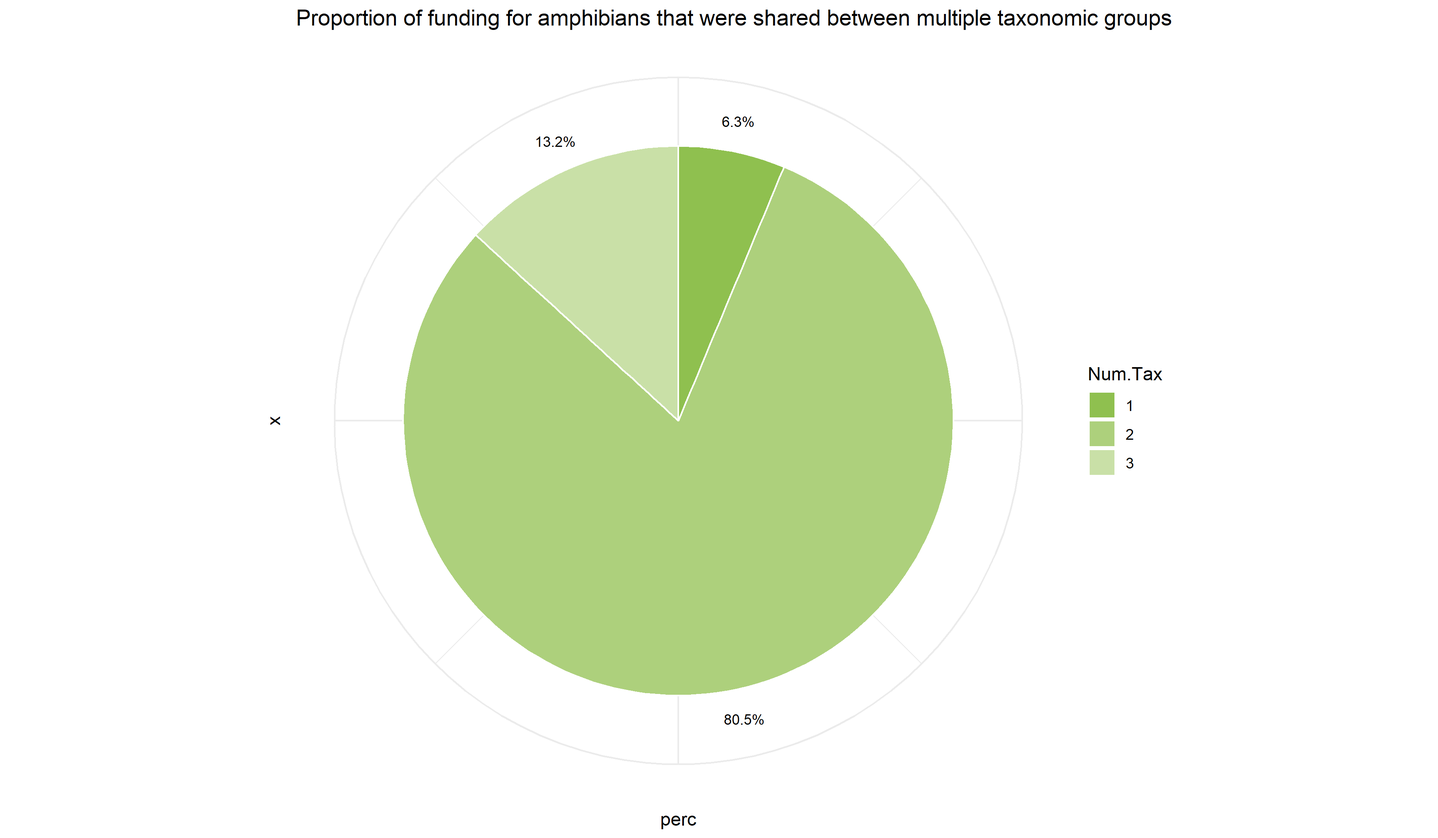
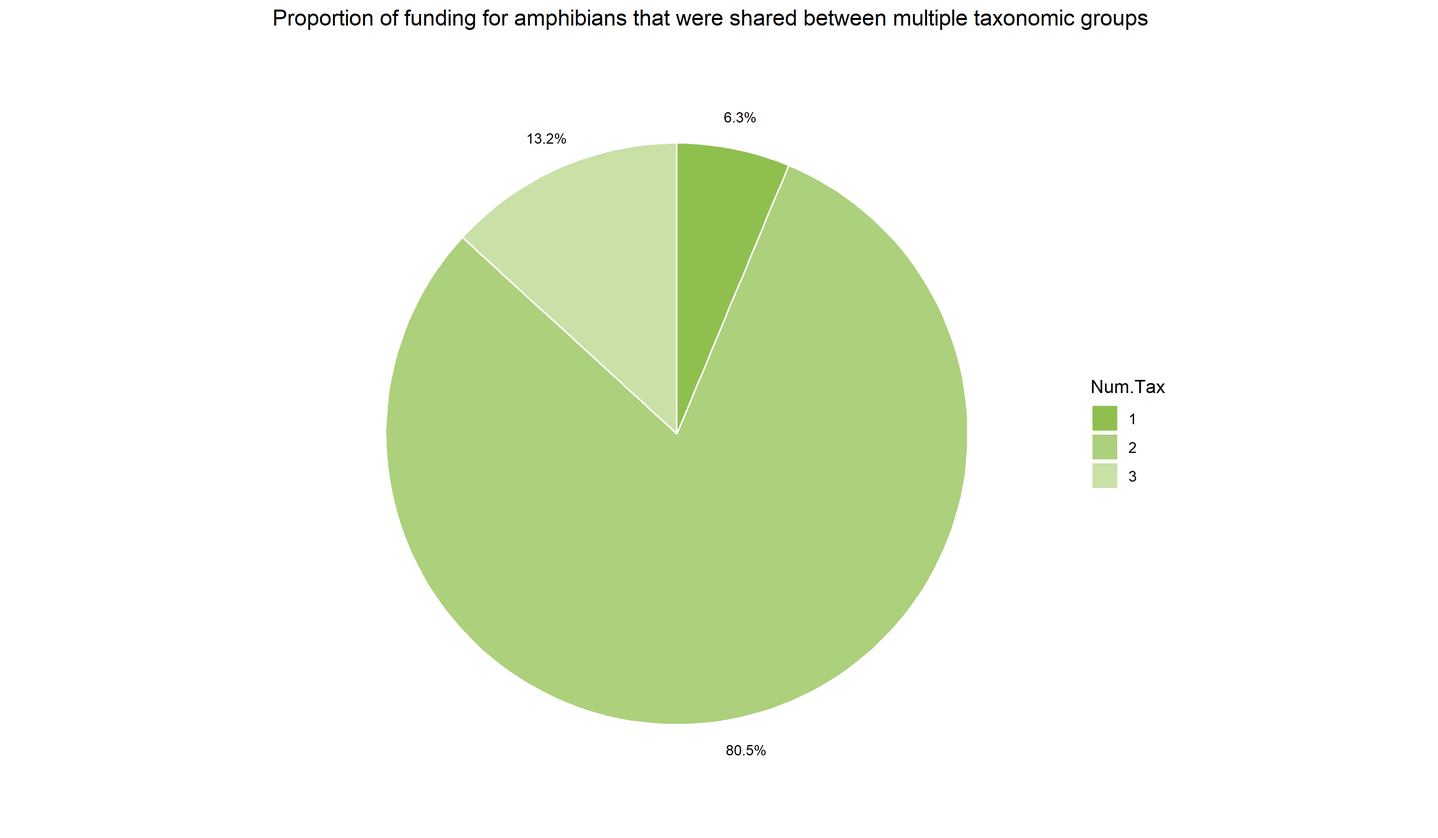
edits - supplementary figures

diff --git a/docs/supplementary-figures.html b/docs/supplementary-figures.html
@@ -283,19 +283,20 @@ Figure 10.1: Mismatch between conservation funding and drivers of biodiversity l
 <a class="sourceLine" id="cb67-11" title="11">                           <span class="dt">x =</span> <span class="st">&quot;&quot;</span>,</a>
 <a class="sourceLine" id="cb67-12" title="12">                           <span class="dt">fill =</span> Num.Tax)) <span class="op">+</span></a>
 <a class="sourceLine" id="cb67-13" title="13"><span class="st">  </span><span class="kw">geom_bar</span>(<span class="dt">stat =</span> <span class="st">&quot;identity&quot;</span>, <span class="dt">color =</span> <span class="st">&quot;white&quot;</span>) <span class="op">+</span></a>
-<a class="sourceLine" id="cb67-14" title="14"><span class="st">  </span><span class="kw">theme_minimal</span>() <span class="op">+</span></a>
+<a class="sourceLine" id="cb67-14" title="14"><span class="st">  </span><span class="kw">theme_bw</span>() <span class="op">+</span></a>
 <a class="sourceLine" id="cb67-15" title="15"><span class="st">  </span><span class="kw">scale_fill_manual</span>(<span class="dt">values =</span> <span class="kw">seq_gradient_pal</span>(cat_colors22[<span class="dv">9</span>], <span class="st">&quot;white&quot;</span>,</a>
 <a class="sourceLine" id="cb67-16" title="16">                                              <span class="st">&quot;Lab&quot;</span>)(<span class="kw">seq</span>(<span class="dv">0</span>,<span class="dv">1</span>, <span class="dt">length.out =</span> <span class="dv">5</span>))) <span class="op">+</span></a>
 <a class="sourceLine" id="cb67-17" title="17"><span class="st">  </span><span class="kw">labs</span>(<span class="dt">title=</span><span class="st">&quot;Proportion of funding for amphibians that were shared between multiple taxonomic groups&quot;</span>) <span class="op">+</span></a>
 <a class="sourceLine" id="cb67-18" title="18"><span class="st">  </span><span class="kw">coord_polar</span>(<span class="st">&quot;y&quot;</span>, <span class="dt">start=</span><span class="dv">0</span>, <span class="dt">direction =</span> <span class="dv">-1</span>) <span class="op">+</span></a>
-<a class="sourceLine" id="cb67-19" title="19"><span class="st">  </span><span class="kw">theme</span>(<span class="dt">axis.text.x =</span> <span class="kw">element_blank</span>()) <span class="op">+</span></a>
-<a class="sourceLine" id="cb67-20" title="20"><span class="st">  </span><span class="kw">geom_text</span>(<span class="kw">aes</span>(<span class="dt">x =</span> <span class="fl">1.55</span>,</a>
-<a class="sourceLine" id="cb67-21" title="21">                <span class="dt">label =</span> <span class="kw">paste0</span>(<span class="kw">round</span>(perc<span class="op">*</span><span class="dv">100</span>,<span class="dv">1</span>), <span class="st">&quot;%&quot;</span>)),</a>
-<a class="sourceLine" id="cb67-22" title="22">            <span class="dt">position =</span> <span class="kw">position_stack</span>(<span class="dt">vjust =</span> <span class="fl">0.5</span>),</a>
-<a class="sourceLine" id="cb67-23" title="23">            <span class="dt">size =</span> <span class="dv">3</span>,</a>
-<a class="sourceLine" id="cb67-24" title="24">            <span class="dt">col =</span> <span class="st">&quot;black&quot;</span>)</a>
-<a class="sourceLine" id="cb67-25" title="25"></a>
-<a class="sourceLine" id="cb67-26" title="26"><span class="kw">ggsave</span>(plot.pie.Ntaxa_amphibian, <span class="dt">filename =</span> <span class="st">&quot;figs</span><span class="ch">\\</span><span class="st">fig_pie_amphibian.png&quot;</span>, <span class="dt">width=</span><span class="dv">12</span>, <span class="dt">height=</span><span class="dv">7</span>, <span class="dt">device=</span><span class="kw">png</span>(), <span class="dt">units=</span><span class="st">&quot;in&quot;</span>,<span class="dt">dpi =</span> <span class="dv">300</span>)</a></code></pre></div>
+<a class="sourceLine" id="cb67-19" title="19"><span class="st">  </span><span class="kw">theme_void</span>() <span class="op">+</span></a>
+<a class="sourceLine" id="cb67-20" title="20"><span class="st">  </span><span class="kw">theme</span>(<span class="dt">axis.text.x =</span> <span class="kw">element_blank</span>()) <span class="op">+</span></a>
+<a class="sourceLine" id="cb67-21" title="21"><span class="st">  </span><span class="kw">geom_text</span>(<span class="kw">aes</span>(<span class="dt">x =</span> <span class="fl">1.55</span>,</a>
+<a class="sourceLine" id="cb67-22" title="22">                <span class="dt">label =</span> <span class="kw">paste0</span>(<span class="kw">round</span>(perc<span class="op">*</span><span class="dv">100</span>,<span class="dv">1</span>), <span class="st">&quot;%&quot;</span>)),</a>
+<a class="sourceLine" id="cb67-23" title="23">            <span class="dt">position =</span> <span class="kw">position_stack</span>(<span class="dt">vjust =</span> <span class="fl">0.5</span>),</a>
+<a class="sourceLine" id="cb67-24" title="24">            <span class="dt">size =</span> <span class="dv">3</span>,</a>
+<a class="sourceLine" id="cb67-25" title="25">            <span class="dt">col =</span> <span class="st">&quot;black&quot;</span>)</a>
+<a class="sourceLine" id="cb67-26" title="26"></a>
+<a class="sourceLine" id="cb67-27" title="27"><span class="kw">ggsave</span>(plot.pie.Ntaxa_amphibian, <span class="dt">filename =</span> <span class="st">&quot;figs</span><span class="ch">\\</span><span class="st">fig_pie_amphibian.png&quot;</span>, <span class="dt">width=</span><span class="dv">12</span>, <span class="dt">height=</span><span class="dv">7</span>, <span class="dt">device=</span><span class="kw">png</span>(), <span class="dt">units=</span><span class="st">&quot;in&quot;</span>,<span class="dt">dpi =</span> <span class="dv">300</span>)</a></code></pre></div>
 <div class="sourceCode" id="cb68"><pre class="sourceCode r"><code class="sourceCode r"><a class="sourceLine" id="cb68-1" title="1"><span class="co"># show exported image</span></a>
 <a class="sourceLine" id="cb68-2" title="2">knitr<span class="op">::</span><span class="kw">include_graphics</span>(<span class="st">&quot;figs/fig_pie_amphibian.png&quot;</span>)</a></code></pre></div>
 <div class="figure" style="text-align: center"><span id="fig:unnamed-chunk-76"></span>
@@ -323,14 +324,15 @@ Figure 10.2: Proportion of funding for amphibians that were shared between multi
 <a class="sourceLine" id="cb69-16" title="16">                                              <span class="st">&quot;Lab&quot;</span>)(<span class="kw">seq</span>(<span class="dv">0</span>,<span class="dv">1</span>, <span class="dt">length.out =</span> <span class="dv">5</span>))) <span class="op">+</span></a>
 <a class="sourceLine" id="cb69-17" title="17"><span class="st">  </span><span class="kw">labs</span>(<span class="dt">title=</span><span class="st">&quot;Proportion of funding for birds that were shared between multiple taxonomic groups&quot;</span>) <span class="op">+</span></a>
 <a class="sourceLine" id="cb69-18" title="18"><span class="st">  </span><span class="kw">coord_polar</span>(<span class="st">&quot;y&quot;</span>, <span class="dt">start=</span><span class="dv">0</span>, <span class="dt">direction =</span> <span class="dv">-1</span>) <span class="op">+</span></a>
-<a class="sourceLine" id="cb69-19" title="19"><span class="st">  </span><span class="kw">theme</span>(<span class="dt">axis.text.x =</span> <span class="kw">element_blank</span>()) <span class="op">+</span></a>
-<a class="sourceLine" id="cb69-20" title="20"><span class="st">  </span><span class="kw">geom_text</span>(<span class="kw">aes</span>(<span class="dt">x =</span> <span class="kw">c</span>(<span class="kw">rep</span>(<span class="fl">1.55</span>, <span class="dv">3</span>), <span class="fl">1.65</span>),</a>
-<a class="sourceLine" id="cb69-21" title="21">                <span class="dt">label =</span> <span class="kw">paste0</span>(<span class="kw">round</span>(perc<span class="op">*</span><span class="dv">100</span>,<span class="dv">1</span>), <span class="st">&quot;%&quot;</span>)),</a>
-<a class="sourceLine" id="cb69-22" title="22">            <span class="dt">position =</span> <span class="kw">position_stack</span>(<span class="dt">vjust =</span> <span class="fl">0.5</span>),</a>
-<a class="sourceLine" id="cb69-23" title="23">            <span class="dt">size =</span> <span class="dv">3</span>,</a>
-<a class="sourceLine" id="cb69-24" title="24">            <span class="dt">col =</span> <span class="st">&quot;black&quot;</span>)</a>
-<a class="sourceLine" id="cb69-25" title="25"></a>
-<a class="sourceLine" id="cb69-26" title="26"><span class="kw">ggsave</span>(plot.pie.Ntaxa_bird, <span class="dt">filename =</span> <span class="st">&quot;figs</span><span class="ch">\\</span><span class="st">fig_pie_bird.png&quot;</span>, <span class="dt">width=</span><span class="dv">12</span>, <span class="dt">height=</span><span class="dv">7</span>,<span class="dt">dpi =</span> <span class="dv">300</span>, <span class="dt">device =</span> <span class="kw">png</span>(), <span class="dt">units=</span><span class="st">&quot;in&quot;</span>)</a></code></pre></div>
+<a class="sourceLine" id="cb69-19" title="19"><span class="st">  </span><span class="kw">theme_void</span>()<span class="op">+</span></a>
+<a class="sourceLine" id="cb69-20" title="20"><span class="st">  </span><span class="kw">theme</span>(<span class="dt">axis.text.x =</span> <span class="kw">element_blank</span>()) <span class="op">+</span></a>
+<a class="sourceLine" id="cb69-21" title="21"><span class="st">  </span><span class="kw">geom_text</span>(<span class="kw">aes</span>(<span class="dt">x =</span> <span class="kw">c</span>(<span class="kw">rep</span>(<span class="fl">1.55</span>, <span class="dv">3</span>), <span class="fl">1.65</span>),</a>
+<a class="sourceLine" id="cb69-22" title="22">                <span class="dt">label =</span> <span class="kw">paste0</span>(<span class="kw">round</span>(perc<span class="op">*</span><span class="dv">100</span>,<span class="dv">1</span>), <span class="st">&quot;%&quot;</span>)),</a>
+<a class="sourceLine" id="cb69-23" title="23">            <span class="dt">position =</span> <span class="kw">position_stack</span>(<span class="dt">vjust =</span> <span class="fl">0.5</span>),</a>
+<a class="sourceLine" id="cb69-24" title="24">            <span class="dt">size =</span> <span class="dv">3</span>,</a>
+<a class="sourceLine" id="cb69-25" title="25">            <span class="dt">col =</span> <span class="st">&quot;black&quot;</span>)</a>
+<a class="sourceLine" id="cb69-26" title="26"></a>
+<a class="sourceLine" id="cb69-27" title="27"><span class="kw">ggsave</span>(plot.pie.Ntaxa_bird, <span class="dt">filename =</span> <span class="st">&quot;figs</span><span class="ch">\\</span><span class="st">fig_pie_bird.png&quot;</span>, <span class="dt">width=</span><span class="dv">12</span>, <span class="dt">height=</span><span class="dv">7</span>,<span class="dt">dpi =</span> <span class="dv">300</span>, <span class="dt">device =</span> <span class="kw">png</span>(), <span class="dt">units=</span><span class="st">&quot;in&quot;</span>)</a></code></pre></div>
 <div class="sourceCode" id="cb70"><pre class="sourceCode r"><code class="sourceCode r"><a class="sourceLine" id="cb70-1" title="1"><span class="co"># show exported image</span></a>
 <a class="sourceLine" id="cb70-2" title="2">knitr<span class="op">::</span><span class="kw">include_graphics</span>(<span class="st">&quot;figs/fig_pie_bird.png&quot;</span>)</a></code></pre></div>
 <div class="figure" style="text-align: center"><span id="fig:unnamed-chunk-78"></span>
@@ -358,14 +360,15 @@ Figure 10.3: Proportion of funding for birds that were shared between multiple t
 <a class="sourceLine" id="cb71-16" title="16">                                              <span class="st">&quot;Lab&quot;</span>)(<span class="kw">seq</span>(<span class="dv">0</span>,<span class="dv">1</span>, <span class="dt">length.out =</span> <span class="dv">5</span>))) <span class="op">+</span></a>
 <a class="sourceLine" id="cb71-17" title="17"><span class="st">  </span><span class="kw">labs</span>(<span class="dt">title=</span><span class="st">&quot;Proportion of funding for invertebrates that were shared between multiple taxonomic groups&quot;</span>) <span class="op">+</span></a>
 <a class="sourceLine" id="cb71-18" title="18"><span class="st">  </span><span class="kw">coord_polar</span>(<span class="st">&quot;y&quot;</span>, <span class="dt">start=</span><span class="dv">0</span>, <span class="dt">direction =</span> <span class="dv">-1</span>) <span class="op">+</span></a>
-<a class="sourceLine" id="cb71-19" title="19"><span class="st">  </span><span class="kw">theme</span>(<span class="dt">axis.text.x =</span> <span class="kw">element_blank</span>()) <span class="op">+</span></a>
-<a class="sourceLine" id="cb71-20" title="20"><span class="st">  </span><span class="kw">geom_text</span>(<span class="kw">aes</span>(<span class="dt">x =</span> <span class="kw">c</span>(<span class="kw">rep</span>(<span class="fl">1.55</span>, <span class="dv">3</span>), <span class="fl">1.65</span>),</a>
-<a class="sourceLine" id="cb71-21" title="21">                <span class="dt">label =</span> <span class="kw">paste0</span>(<span class="kw">round</span>(perc<span class="op">*</span><span class="dv">100</span>,<span class="dv">1</span>), <span class="st">&quot;%&quot;</span>)),</a>
-<a class="sourceLine" id="cb71-22" title="22">            <span class="dt">position =</span> <span class="kw">position_stack</span>(<span class="dt">vjust =</span> <span class="fl">0.5</span>),</a>
-<a class="sourceLine" id="cb71-23" title="23">            <span class="dt">size =</span> <span class="dv">3</span>,</a>
-<a class="sourceLine" id="cb71-24" title="24">            <span class="dt">col =</span> <span class="st">&quot;black&quot;</span>)</a>
-<a class="sourceLine" id="cb71-25" title="25"></a>
-<a class="sourceLine" id="cb71-26" title="26"><span class="kw">ggsave</span>(plot.pie.Ntaxa_invertebrate, <span class="dt">filename =</span> <span class="st">&quot;figs</span><span class="ch">\\</span><span class="st">fig_pie_invertebrate.png&quot;</span>, <span class="dt">width=</span><span class="dv">12</span>, <span class="dt">height=</span><span class="dv">7</span>,<span class="dt">dpi =</span> <span class="dv">300</span>, <span class="dt">device =</span> <span class="kw">png</span>(), <span class="dt">units=</span><span class="st">&quot;in&quot;</span>)</a></code></pre></div>
+<a class="sourceLine" id="cb71-19" title="19"><span class="st">  </span><span class="kw">theme_void</span>() <span class="op">+</span></a>
+<a class="sourceLine" id="cb71-20" title="20"><span class="st">  </span><span class="kw">theme</span>(<span class="dt">axis.text.x =</span> <span class="kw">element_blank</span>()) <span class="op">+</span></a>
+<a class="sourceLine" id="cb71-21" title="21"><span class="st">  </span><span class="kw">geom_text</span>(<span class="kw">aes</span>(<span class="dt">x =</span> <span class="kw">c</span>(<span class="kw">rep</span>(<span class="fl">1.55</span>, <span class="dv">3</span>), <span class="fl">1.65</span>),</a>
+<a class="sourceLine" id="cb71-22" title="22">                <span class="dt">label =</span> <span class="kw">paste0</span>(<span class="kw">round</span>(perc<span class="op">*</span><span class="dv">100</span>,<span class="dv">1</span>), <span class="st">&quot;%&quot;</span>)),</a>
+<a class="sourceLine" id="cb71-23" title="23">            <span class="dt">position =</span> <span class="kw">position_stack</span>(<span class="dt">vjust =</span> <span class="fl">0.5</span>),</a>
+<a class="sourceLine" id="cb71-24" title="24">            <span class="dt">size =</span> <span class="dv">3</span>,</a>
+<a class="sourceLine" id="cb71-25" title="25">            <span class="dt">col =</span> <span class="st">&quot;black&quot;</span>)</a>
+<a class="sourceLine" id="cb71-26" title="26"></a>
+<a class="sourceLine" id="cb71-27" title="27"><span class="kw">ggsave</span>(plot.pie.Ntaxa_invertebrate, <span class="dt">filename =</span> <span class="st">&quot;figs</span><span class="ch">\\</span><span class="st">fig_pie_invertebrate.png&quot;</span>, <span class="dt">width=</span><span class="dv">12</span>, <span class="dt">height=</span><span class="dv">7</span>,<span class="dt">dpi =</span> <span class="dv">300</span>, <span class="dt">device =</span> <span class="kw">png</span>(), <span class="dt">units=</span><span class="st">&quot;in&quot;</span>)</a></code></pre></div>
 <div class="sourceCode" id="cb72"><pre class="sourceCode r"><code class="sourceCode r"><a class="sourceLine" id="cb72-1" title="1"><span class="co"># show exported image</span></a>
 <a class="sourceLine" id="cb72-2" title="2">knitr<span class="op">::</span><span class="kw">include_graphics</span>(<span class="st">&quot;figs/fig_pie_invertebrate.png&quot;</span>)</a></code></pre></div>
 <div class="figure" style="text-align: center"><span id="fig:unnamed-chunk-80"></span>
@@ -393,14 +396,15 @@ Figure 10.4: Proportion of funding for invertebrates that were shared between mu
 <a class="sourceLine" id="cb73-16" title="16">                                              <span class="st">&quot;Lab&quot;</span>)(<span class="kw">seq</span>(<span class="dv">0</span>,<span class="dv">1</span>, <span class="dt">length.out =</span> <span class="dv">5</span>))) <span class="op">+</span></a>
 <a class="sourceLine" id="cb73-17" title="17"><span class="st">  </span><span class="kw">labs</span>(<span class="dt">title=</span><span class="st">&quot;Proportion of funding for fish that were shared between multiple taxonomic groups&quot;</span>) <span class="op">+</span></a>
 <a class="sourceLine" id="cb73-18" title="18"><span class="st">  </span><span class="kw">coord_polar</span>(<span class="st">&quot;y&quot;</span>, <span class="dt">start=</span><span class="dv">0</span>, <span class="dt">direction =</span> <span class="dv">-1</span>) <span class="op">+</span></a>
-<a class="sourceLine" id="cb73-19" title="19"><span class="st">  </span><span class="kw">theme</span>(<span class="dt">axis.text.x =</span> <span class="kw">element_blank</span>()) <span class="op">+</span></a>
-<a class="sourceLine" id="cb73-20" title="20"><span class="st">  </span><span class="kw">geom_text</span>(<span class="kw">aes</span>(<span class="dt">x =</span> <span class="kw">c</span>(<span class="kw">rep</span>(<span class="fl">1.55</span>, <span class="dv">3</span>), <span class="fl">1.65</span>),</a>
-<a class="sourceLine" id="cb73-21" title="21">                <span class="dt">label =</span> <span class="kw">paste0</span>(<span class="kw">round</span>(perc<span class="op">*</span><span class="dv">100</span>,<span class="dv">1</span>), <span class="st">&quot;%&quot;</span>)),</a>
-<a class="sourceLine" id="cb73-22" title="22">            <span class="dt">position =</span> <span class="kw">position_stack</span>(<span class="dt">vjust =</span> <span class="fl">0.5</span>),</a>
-<a class="sourceLine" id="cb73-23" title="23">            <span class="dt">size =</span> <span class="dv">3</span>,</a>
-<a class="sourceLine" id="cb73-24" title="24">            <span class="dt">col =</span> <span class="st">&quot;black&quot;</span>)</a>
-<a class="sourceLine" id="cb73-25" title="25"></a>
-<a class="sourceLine" id="cb73-26" title="26"><span class="kw">ggsave</span>(plot.pie.Ntaxa_fish, <span class="dt">filename =</span> <span class="st">&quot;figs</span><span class="ch">\\</span><span class="st">fig_pie_fish.png&quot;</span>, <span class="dt">width=</span><span class="dv">12</span>, <span class="dt">height=</span><span class="dv">7</span>,<span class="dt">dpi =</span> <span class="dv">300</span>, <span class="dt">units=</span><span class="st">&quot;in&quot;</span>, <span class="dt">device=</span><span class="kw">png</span>())</a></code></pre></div>
+<a class="sourceLine" id="cb73-19" title="19"><span class="st">  </span><span class="kw">theme_void</span>()<span class="op">+</span></a>
+<a class="sourceLine" id="cb73-20" title="20"><span class="st">  </span><span class="kw">theme</span>(<span class="dt">axis.text.x =</span> <span class="kw">element_blank</span>()) <span class="op">+</span></a>
+<a class="sourceLine" id="cb73-21" title="21"><span class="st">  </span><span class="kw">geom_text</span>(<span class="kw">aes</span>(<span class="dt">x =</span> <span class="kw">c</span>(<span class="kw">rep</span>(<span class="fl">1.55</span>, <span class="dv">3</span>), <span class="fl">1.65</span>),</a>
+<a class="sourceLine" id="cb73-22" title="22">                <span class="dt">label =</span> <span class="kw">paste0</span>(<span class="kw">round</span>(perc<span class="op">*</span><span class="dv">100</span>,<span class="dv">1</span>), <span class="st">&quot;%&quot;</span>)),</a>
+<a class="sourceLine" id="cb73-23" title="23">            <span class="dt">position =</span> <span class="kw">position_stack</span>(<span class="dt">vjust =</span> <span class="fl">0.5</span>),</a>
+<a class="sourceLine" id="cb73-24" title="24">            <span class="dt">size =</span> <span class="dv">3</span>,</a>
+<a class="sourceLine" id="cb73-25" title="25">            <span class="dt">col =</span> <span class="st">&quot;black&quot;</span>)</a>
+<a class="sourceLine" id="cb73-26" title="26"></a>
+<a class="sourceLine" id="cb73-27" title="27"><span class="kw">ggsave</span>(plot.pie.Ntaxa_fish, <span class="dt">filename =</span> <span class="st">&quot;figs</span><span class="ch">\\</span><span class="st">fig_pie_fish.png&quot;</span>, <span class="dt">width=</span><span class="dv">12</span>, <span class="dt">height=</span><span class="dv">7</span>,<span class="dt">dpi =</span> <span class="dv">300</span>, <span class="dt">units=</span><span class="st">&quot;in&quot;</span>, <span class="dt">device=</span><span class="kw">png</span>())</a></code></pre></div>
 <div class="sourceCode" id="cb74"><pre class="sourceCode r"><code class="sourceCode r"><a class="sourceLine" id="cb74-1" title="1"><span class="co"># show exported image</span></a>
 <a class="sourceLine" id="cb74-2" title="2">knitr<span class="op">::</span><span class="kw">include_graphics</span>(<span class="st">&quot;figs/fig_pie_fish.png&quot;</span>)</a></code></pre></div>
 <div class="figure" style="text-align: center"><span id="fig:unnamed-chunk-82"></span>
@@ -428,14 +432,15 @@ Figure 10.5: Proportion of funding for fishes that were shared between multiple 
 <a class="sourceLine" id="cb75-16" title="16">                                              <span class="st">&quot;Lab&quot;</span>)(<span class="kw">seq</span>(<span class="dv">0</span>,<span class="dv">1</span>, <span class="dt">length.out =</span> <span class="dv">5</span>))) <span class="op">+</span></a>
 <a class="sourceLine" id="cb75-17" title="17"><span class="st">  </span><span class="kw">labs</span>(<span class="dt">title=</span><span class="st">&quot;Proportion of funding for mammals that were shared between multiple taxonomic groups&quot;</span>) <span class="op">+</span></a>
 <a class="sourceLine" id="cb75-18" title="18"><span class="st">  </span><span class="kw">coord_polar</span>(<span class="st">&quot;y&quot;</span>, <span class="dt">start=</span><span class="dv">0</span>, <span class="dt">direction =</span> <span class="dv">-1</span>) <span class="op">+</span></a>
-<a class="sourceLine" id="cb75-19" title="19"><span class="st">  </span><span class="kw">theme</span>(<span class="dt">axis.text.x =</span> <span class="kw">element_blank</span>()) <span class="op">+</span></a>
-<a class="sourceLine" id="cb75-20" title="20"><span class="st">  </span><span class="kw">geom_text</span>(<span class="kw">aes</span>(<span class="dt">x =</span> <span class="kw">c</span>(<span class="kw">rep</span>(<span class="fl">1.55</span>, <span class="dv">3</span>), <span class="fl">1.65</span>),</a>
-<a class="sourceLine" id="cb75-21" title="21">                <span class="dt">label =</span> <span class="kw">paste0</span>(<span class="kw">round</span>(perc<span class="op">*</span><span class="dv">100</span>,<span class="dv">1</span>), <span class="st">&quot;%&quot;</span>)),</a>
-<a class="sourceLine" id="cb75-22" title="22">            <span class="dt">position =</span> <span class="kw">position_stack</span>(<span class="dt">vjust =</span> <span class="fl">0.5</span>),</a>
-<a class="sourceLine" id="cb75-23" title="23">            <span class="dt">size =</span> <span class="dv">3</span>,</a>
-<a class="sourceLine" id="cb75-24" title="24">            <span class="dt">col =</span> <span class="st">&quot;black&quot;</span>)</a>
-<a class="sourceLine" id="cb75-25" title="25"></a>
-<a class="sourceLine" id="cb75-26" title="26"><span class="kw">ggsave</span>(plot.pie.Ntaxa_mammal, <span class="dt">filename =</span> <span class="st">&quot;figs</span><span class="ch">\\</span><span class="st">fig_pie_mammal.png&quot;</span>, <span class="dt">width=</span><span class="dv">12</span>, <span class="dt">height=</span><span class="dv">7</span>,<span class="dt">dpi =</span> <span class="dv">300</span>, <span class="dt">units=</span><span class="st">&quot;in&quot;</span>, <span class="dt">device=</span><span class="kw">png</span>())</a></code></pre></div>
+<a class="sourceLine" id="cb75-19" title="19"><span class="st">  </span><span class="kw">theme_void</span>()<span class="op">+</span></a>
+<a class="sourceLine" id="cb75-20" title="20"><span class="st">  </span><span class="kw">theme</span>(<span class="dt">axis.text.x =</span> <span class="kw">element_blank</span>()) <span class="op">+</span></a>
+<a class="sourceLine" id="cb75-21" title="21"><span class="st">  </span><span class="kw">geom_text</span>(<span class="kw">aes</span>(<span class="dt">x =</span> <span class="kw">c</span>(<span class="kw">rep</span>(<span class="fl">1.55</span>, <span class="dv">3</span>), <span class="fl">1.65</span>),</a>
+<a class="sourceLine" id="cb75-22" title="22">                <span class="dt">label =</span> <span class="kw">paste0</span>(<span class="kw">round</span>(perc<span class="op">*</span><span class="dv">100</span>,<span class="dv">1</span>), <span class="st">&quot;%&quot;</span>)),</a>
+<a class="sourceLine" id="cb75-23" title="23">            <span class="dt">position =</span> <span class="kw">position_stack</span>(<span class="dt">vjust =</span> <span class="fl">0.5</span>),</a>
+<a class="sourceLine" id="cb75-24" title="24">            <span class="dt">size =</span> <span class="dv">3</span>,</a>
+<a class="sourceLine" id="cb75-25" title="25">            <span class="dt">col =</span> <span class="st">&quot;black&quot;</span>)</a>
+<a class="sourceLine" id="cb75-26" title="26"></a>
+<a class="sourceLine" id="cb75-27" title="27"><span class="kw">ggsave</span>(plot.pie.Ntaxa_mammal, <span class="dt">filename =</span> <span class="st">&quot;figs</span><span class="ch">\\</span><span class="st">fig_pie_mammal.png&quot;</span>, <span class="dt">width=</span><span class="dv">12</span>, <span class="dt">height=</span><span class="dv">7</span>,<span class="dt">dpi =</span> <span class="dv">300</span>, <span class="dt">units=</span><span class="st">&quot;in&quot;</span>, <span class="dt">device=</span><span class="kw">png</span>())</a></code></pre></div>
 <div class="sourceCode" id="cb76"><pre class="sourceCode r"><code class="sourceCode r"><a class="sourceLine" id="cb76-1" title="1"><span class="co"># show exported image</span></a>
 <a class="sourceLine" id="cb76-2" title="2">knitr<span class="op">::</span><span class="kw">include_graphics</span>(<span class="st">&quot;figs/fig_pie_mammal.png&quot;</span>)</a></code></pre></div>
 <div class="figure" style="text-align: center"><span id="fig:unnamed-chunk-84"></span>
@@ -463,14 +468,15 @@ Figure 10.6: Proportion of funding for mammals that were shared between multiple
 <a class="sourceLine" id="cb77-16" title="16">                                              <span class="st">&quot;Lab&quot;</span>)(<span class="kw">seq</span>(<span class="dv">0</span>,<span class="dv">1</span>, <span class="dt">length.out =</span> <span class="dv">5</span>))) <span class="op">+</span></a>
 <a class="sourceLine" id="cb77-17" title="17"><span class="st">  </span><span class="kw">labs</span>(<span class="dt">title=</span><span class="st">&quot;Proportion of funding for plants that were shared between multiple taxonomic groups&quot;</span>) <span class="op">+</span></a>
 <a class="sourceLine" id="cb77-18" title="18"><span class="st">  </span><span class="kw">coord_polar</span>(<span class="st">&quot;y&quot;</span>, <span class="dt">start=</span><span class="dv">0</span>, <span class="dt">direction =</span> <span class="dv">-1</span>) <span class="op">+</span></a>
-<a class="sourceLine" id="cb77-19" title="19"><span class="st">  </span><span class="kw">theme</span>(<span class="dt">axis.text.x =</span> <span class="kw">element_blank</span>()) <span class="op">+</span></a>
-<a class="sourceLine" id="cb77-20" title="20"><span class="st">  </span><span class="kw">geom_text</span>(<span class="kw">aes</span>(<span class="dt">x =</span> <span class="kw">c</span>(<span class="kw">rep</span>(<span class="fl">1.55</span>, <span class="dv">3</span>), <span class="fl">1.65</span>),</a>
-<a class="sourceLine" id="cb77-21" title="21">                <span class="dt">label =</span> <span class="kw">paste0</span>(<span class="kw">round</span>(perc<span class="op">*</span><span class="dv">100</span>,<span class="dv">1</span>), <span class="st">&quot;%&quot;</span>)),</a>
-<a class="sourceLine" id="cb77-22" title="22">            <span class="dt">position =</span> <span class="kw">position_stack</span>(<span class="dt">vjust =</span> <span class="fl">0.5</span>),</a>
-<a class="sourceLine" id="cb77-23" title="23">            <span class="dt">size =</span> <span class="dv">3</span>,</a>
-<a class="sourceLine" id="cb77-24" title="24">            <span class="dt">col =</span> <span class="st">&quot;black&quot;</span>)</a>
-<a class="sourceLine" id="cb77-25" title="25"></a>
-<a class="sourceLine" id="cb77-26" title="26"><span class="kw">ggsave</span>(plot.pie.Ntaxa_plant, <span class="dt">filename =</span> <span class="st">&quot;figs</span><span class="ch">\\</span><span class="st">fig_pie_plant.png&quot;</span>, <span class="dt">width=</span><span class="dv">12</span>, <span class="dt">height=</span><span class="dv">7</span>,<span class="dt">dpi =</span> <span class="dv">300</span>, <span class="dt">units=</span><span class="st">&quot;in&quot;</span>, <span class="dt">device=</span><span class="kw">png</span>())</a></code></pre></div>
+<a class="sourceLine" id="cb77-19" title="19"><span class="st">  </span><span class="kw">theme_void</span>()<span class="op">+</span></a>
+<a class="sourceLine" id="cb77-20" title="20"><span class="st">  </span><span class="kw">theme</span>(<span class="dt">axis.text.x =</span> <span class="kw">element_blank</span>()) <span class="op">+</span></a>
+<a class="sourceLine" id="cb77-21" title="21"><span class="st">  </span><span class="kw">geom_text</span>(<span class="kw">aes</span>(<span class="dt">x =</span> <span class="kw">c</span>(<span class="kw">rep</span>(<span class="fl">1.55</span>, <span class="dv">3</span>), <span class="fl">1.65</span>),</a>
+<a class="sourceLine" id="cb77-22" title="22">                <span class="dt">label =</span> <span class="kw">paste0</span>(<span class="kw">round</span>(perc<span class="op">*</span><span class="dv">100</span>,<span class="dv">1</span>), <span class="st">&quot;%&quot;</span>)),</a>
+<a class="sourceLine" id="cb77-23" title="23">            <span class="dt">position =</span> <span class="kw">position_stack</span>(<span class="dt">vjust =</span> <span class="fl">0.5</span>),</a>
+<a class="sourceLine" id="cb77-24" title="24">            <span class="dt">size =</span> <span class="dv">3</span>,</a>
+<a class="sourceLine" id="cb77-25" title="25">            <span class="dt">col =</span> <span class="st">&quot;black&quot;</span>)</a>
+<a class="sourceLine" id="cb77-26" title="26"></a>
+<a class="sourceLine" id="cb77-27" title="27"><span class="kw">ggsave</span>(plot.pie.Ntaxa_plant, <span class="dt">filename =</span> <span class="st">&quot;figs</span><span class="ch">\\</span><span class="st">fig_pie_plant.png&quot;</span>, <span class="dt">width=</span><span class="dv">12</span>, <span class="dt">height=</span><span class="dv">7</span>,<span class="dt">dpi =</span> <span class="dv">300</span>, <span class="dt">units=</span><span class="st">&quot;in&quot;</span>, <span class="dt">device=</span><span class="kw">png</span>())</a></code></pre></div>
 <div class="sourceCode" id="cb78"><pre class="sourceCode r"><code class="sourceCode r"><a class="sourceLine" id="cb78-1" title="1"><span class="co"># show exported image</span></a>
 <a class="sourceLine" id="cb78-2" title="2">knitr<span class="op">::</span><span class="kw">include_graphics</span>(<span class="st">&quot;figs/fig_pie_plant.png&quot;</span>)</a></code></pre></div>
 <div class="figure" style="text-align: center"><span id="fig:unnamed-chunk-86"></span>
@@ -498,14 +504,15 @@ Figure 10.7: Proportion of funding for plants that were shared between multiple 
 <a class="sourceLine" id="cb79-16" title="16">                                              <span class="st">&quot;Lab&quot;</span>)(<span class="kw">seq</span>(<span class="dv">0</span>,<span class="dv">1</span>, <span class="dt">length.out =</span> <span class="dv">5</span>))) <span class="op">+</span></a>
 <a class="sourceLine" id="cb79-17" title="17"><span class="st">  </span><span class="kw">labs</span>(<span class="dt">title=</span><span class="st">&quot;Proportion of funding for reptiles that were shared between multiple taxonomic groups&quot;</span>) <span class="op">+</span></a>
 <a class="sourceLine" id="cb79-18" title="18"><span class="st">  </span><span class="kw">coord_polar</span>(<span class="st">&quot;y&quot;</span>, <span class="dt">start=</span><span class="dv">0</span>, <span class="dt">direction =</span> <span class="dv">-1</span>) <span class="op">+</span></a>
-<a class="sourceLine" id="cb79-19" title="19"><span class="st">  </span><span class="kw">theme</span>(<span class="dt">axis.text.x =</span> <span class="kw">element_blank</span>()) <span class="op">+</span></a>
-<a class="sourceLine" id="cb79-20" title="20"><span class="st">  </span><span class="kw">geom_text</span>(<span class="kw">aes</span>(<span class="dt">x =</span> <span class="kw">c</span>(<span class="kw">rep</span>(<span class="fl">1.55</span>, <span class="dv">3</span>), <span class="fl">1.65</span>),</a>
-<a class="sourceLine" id="cb79-21" title="21">                <span class="dt">label =</span> <span class="kw">paste0</span>(<span class="kw">round</span>(perc<span class="op">*</span><span class="dv">100</span>,<span class="dv">1</span>), <span class="st">&quot;%&quot;</span>)),</a>
-<a class="sourceLine" id="cb79-22" title="22">            <span class="dt">position =</span> <span class="kw">position_stack</span>(<span class="dt">vjust =</span> <span class="fl">0.5</span>),</a>
-<a class="sourceLine" id="cb79-23" title="23">            <span class="dt">size =</span> <span class="dv">3</span>,</a>
-<a class="sourceLine" id="cb79-24" title="24">            <span class="dt">col =</span> <span class="st">&quot;black&quot;</span>)</a>
-<a class="sourceLine" id="cb79-25" title="25"></a>
-<a class="sourceLine" id="cb79-26" title="26"><span class="kw">ggsave</span>(plot.pie.Ntaxa_reptile, <span class="dt">filename =</span> <span class="st">&quot;figs</span><span class="ch">\\</span><span class="st">fig_pie_reptile.png&quot;</span>, <span class="dt">width=</span><span class="dv">12</span>, <span class="dt">height=</span><span class="dv">7</span>,<span class="dt">dpi =</span> <span class="dv">300</span>, <span class="dt">units=</span><span class="st">&quot;in&quot;</span>, <span class="dt">device=</span><span class="kw">png</span>())</a></code></pre></div>
+<a class="sourceLine" id="cb79-19" title="19"><span class="st">  </span><span class="kw">theme_void</span>()<span class="op">+</span></a>
+<a class="sourceLine" id="cb79-20" title="20"><span class="st">  </span><span class="kw">theme</span>(<span class="dt">axis.text.x =</span> <span class="kw">element_blank</span>()) <span class="op">+</span></a>
+<a class="sourceLine" id="cb79-21" title="21"><span class="st">  </span><span class="kw">geom_text</span>(<span class="kw">aes</span>(<span class="dt">x =</span> <span class="kw">c</span>(<span class="kw">rep</span>(<span class="fl">1.55</span>, <span class="dv">3</span>), <span class="fl">1.65</span>),</a>
+<a class="sourceLine" id="cb79-22" title="22">                <span class="dt">label =</span> <span class="kw">paste0</span>(<span class="kw">round</span>(perc<span class="op">*</span><span class="dv">100</span>,<span class="dv">1</span>), <span class="st">&quot;%&quot;</span>)),</a>
+<a class="sourceLine" id="cb79-23" title="23">            <span class="dt">position =</span> <span class="kw">position_stack</span>(<span class="dt">vjust =</span> <span class="fl">0.5</span>),</a>
+<a class="sourceLine" id="cb79-24" title="24">            <span class="dt">size =</span> <span class="dv">3</span>,</a>
+<a class="sourceLine" id="cb79-25" title="25">            <span class="dt">col =</span> <span class="st">&quot;black&quot;</span>)</a>
+<a class="sourceLine" id="cb79-26" title="26"></a>
+<a class="sourceLine" id="cb79-27" title="27"><span class="kw">ggsave</span>(plot.pie.Ntaxa_reptile, <span class="dt">filename =</span> <span class="st">&quot;figs</span><span class="ch">\\</span><span class="st">fig_pie_reptile.png&quot;</span>, <span class="dt">width=</span><span class="dv">12</span>, <span class="dt">height=</span><span class="dv">7</span>,<span class="dt">dpi =</span> <span class="dv">300</span>, <span class="dt">units=</span><span class="st">&quot;in&quot;</span>, <span class="dt">device=</span><span class="kw">png</span>())</a></code></pre></div>
 <div class="sourceCode" id="cb80"><pre class="sourceCode r"><code class="sourceCode r"><a class="sourceLine" id="cb80-1" title="1"><span class="co"># show exported image</span></a>
 <a class="sourceLine" id="cb80-2" title="2">knitr<span class="op">::</span><span class="kw">include_graphics</span>(<span class="st">&quot;figs/fig_pie_reptile.png&quot;</span>)</a></code></pre></div>
 <div class="figure" style="text-align: center"><span id="fig:unnamed-chunk-88"></span>
